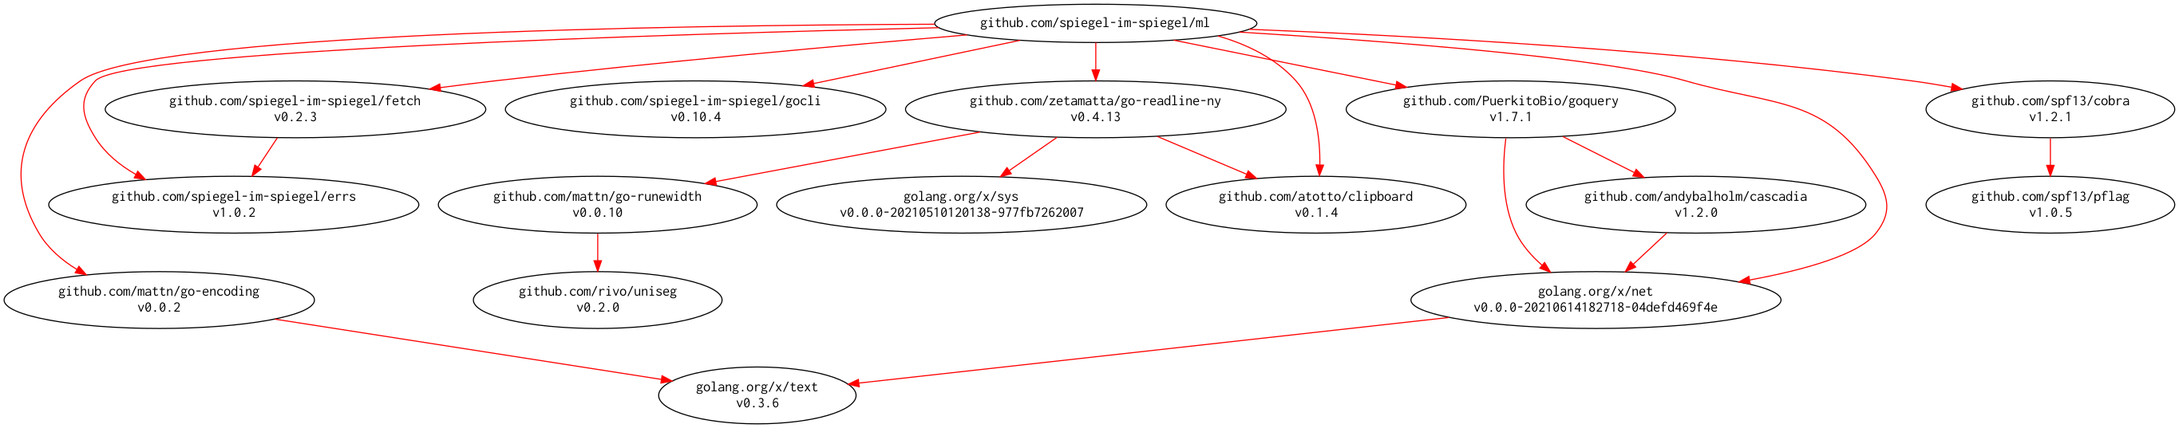
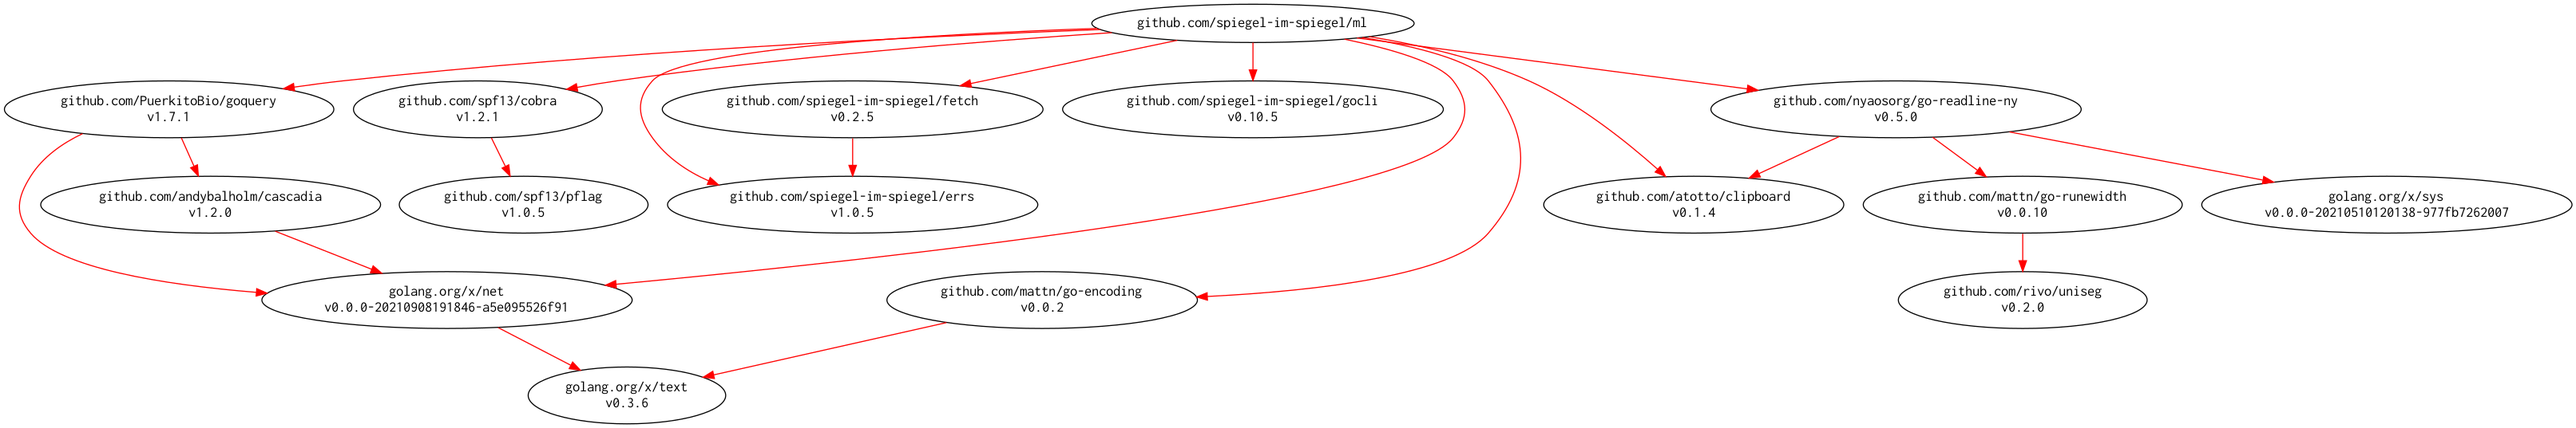
Bump up version of external packages

diff --git a/facade/interactive/interactive.go b/facade/interactive/interactive.go
@@ -8,10 +8,10 @@ import (
 	"os"
 
 	"github.com/atotto/clipboard"
+	"github.com/nyaosorg/go-readline-ny"
 	"github.com/spiegel-im-spiegel/errs"
 	"github.com/spiegel-im-spiegel/gocli/signal"
 	"github.com/spiegel-im-spiegel/ml/facade/options"
-	"github.com/zetamatta/go-readline-ny"
 )
 
 func Do(opts *options.Options) error {

diff --git a/facade/history/history.go b/facade/history/history.go
@@ -5,8 +5,8 @@ import (
 	"fmt"
 	"io"
 
+	"github.com/nyaosorg/go-readline-ny"
 	"github.com/spiegel-im-spiegel/errs"
-	"github.com/zetamatta/go-readline-ny"
 )
 
 //History is a ring-buffer class for history (string) data.

diff --git a/facade/history/file.go b/facade/history/file.go
@@ -3,8 +3,8 @@ package history
 import (
 	"os"
 
+	"github.com/nyaosorg/go-readline-ny"
 	"github.com/spiegel-im-spiegel/errs"
-	"github.com/zetamatta/go-readline-ny"
 )
 
 //HistoryFile is a history file class.
